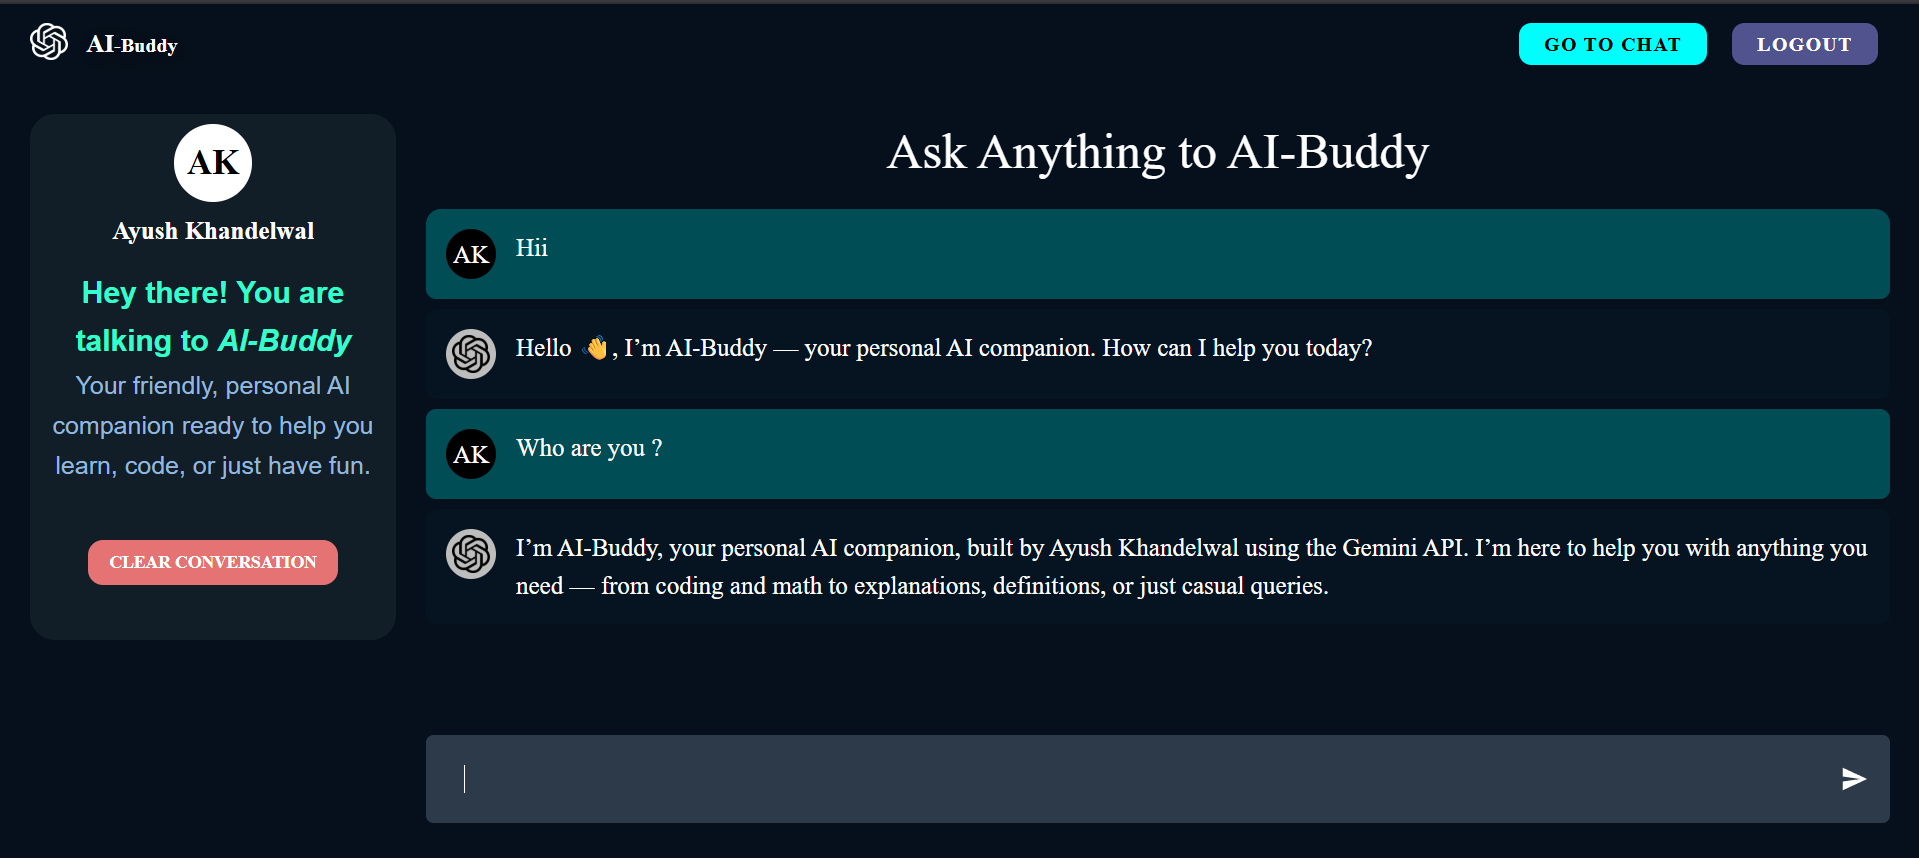
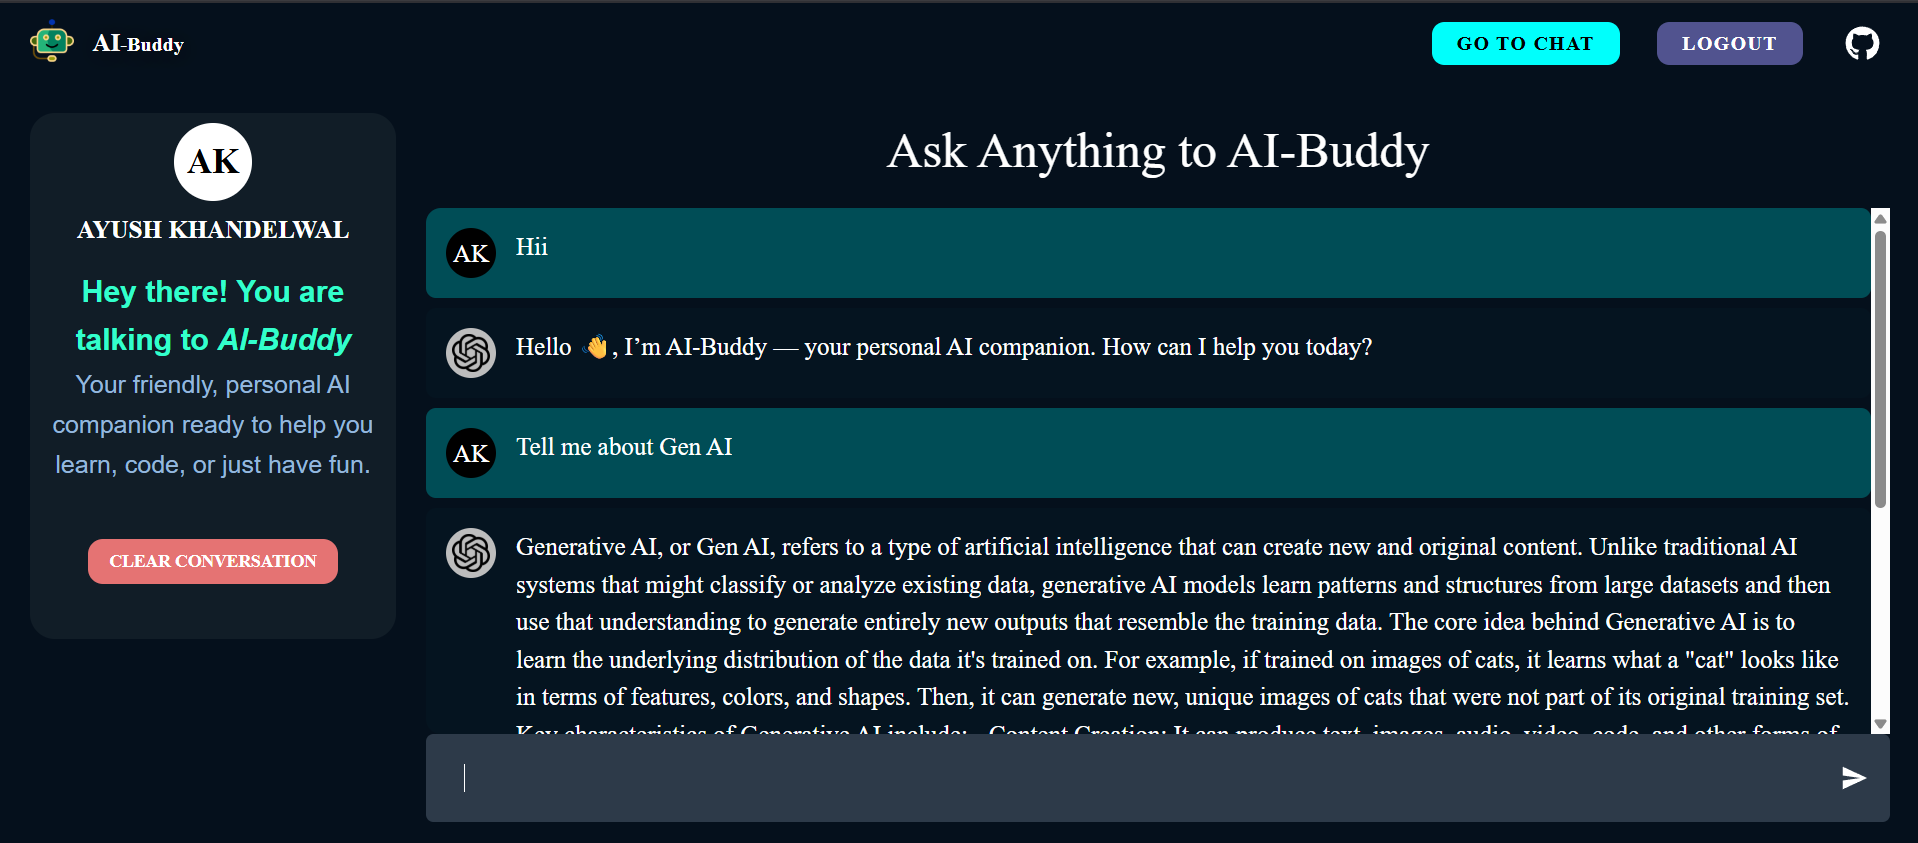
Resolving some errors

diff --git a/frontend/src/Pages/Signup.tsx b/frontend/src/Pages/Signup.tsx
@@ -19,15 +19,21 @@ function Signup() {
     const name = formData.get("name") as string;
     const email = formData.get("email") as string;
     const password = formData.get("password") as string;
+try {
+  toast.loading("Signing Up", { id: "signup" });
+  const res = await auth?.signup(name, email, password);
+ toast.success((res as any)?.message || "Signup Successfully", { id: "signup" });
+} catch (error: any) {
+  console.log("Signup Error:", error);
 
-    try {
-      toast.loading("Signing Up", { id: "signup" });
-      await auth?.signup(name,email, password);
-      toast.success("Signup In Successfully", { id: "signup" });
-    } catch (error) {
-      console.log(error);
-      toast.error("Signing Up  Failed", { id: "signup" });
-    }
+  // yaha dono case cover karne hai:
+  // 1) jab api.tsx ne throw { message: "User already exists" }
+  // 2) jab koi aur error ho (axios/network etc)
+  const errMsg =
+    error?.message || error.response?.data?.message || "Signing Up Failed";
+
+  toast.error(errMsg, { id: "signup" });
+}
   };
   useEffect(() => {
     if (auth?.user) {

diff --git a/frontend/src/helpers/api.tsx b/frontend/src/helpers/api.tsx
@@ -12,18 +12,21 @@ export const loginUser = async (email: string, password: string) => {
      return data;
 };
 
-export const signupUser = async (name:string,email: string, password: string) => {
-
-     const res=await axios.post("/user/signup", { name,email, password });
-
-     if(res.status !== 201){
-        throw new Error("Signup Failed");
-     }
-
-     const data =await res.data;
-     return data;
+export const signupUser = async (name: string, email: string, password: string) => {
+  try {
+    const res = await axios.post("/user/signup", { name, email, password }, { withCredentials: true });
+    return res.data;
+  } catch (error: any) {
+    // axios error hamesha ye shape me throw kar
+    throw {
+      response: {
+        data: {
+          message: error.response?.data?.message || "Signup Failed"
+        }
+      }
+    };
+  }
 };
-
 
 export const checkAuthStatus = async () => {
 

diff --git a/frontend/src/main.tsx b/frontend/src/main.tsx
@@ -8,7 +8,7 @@ import { AuthProvider } from "./context/AuthContent.tsx";
 import {Toaster} from "react-hot-toast"
 import axios from "axios";
 
-axios.defaults.baseURL = "https://ai-chat-bot-backend-4hic.onrender.com/api/v1";
+axios.defaults.baseURL = "https://ai-chat-bot-cauj.onrender.com/api/v1";
 axios.defaults.withCredentials = true;
 
 const theme = createTheme({

diff --git a/frontend/src/components/shared/Logo.tsx b/frontend/src/components/shared/Logo.tsx
@@ -14,10 +14,10 @@ function Logo() {
     >
       <Link to={"/"}>
         <img
-          src="chatbot.png"
+          src="logo.png"
           alt="openai"
-          width={"30px"}
-          height={"30px"}
+          width={"35px"}
+          height={"35px"}
           className="image-inverted"
         />
       </Link>{" "}

diff --git a/frontend/index.html b/frontend/index.html
@@ -2,7 +2,7 @@
 <html lang="en">
   <head>
     <meta charset="UTF-8" />
-    <link rel="icon" type="image/svg+xml" href="/chatbot.png" />
+    <link rel="icon" type="image/svg+xml" href="/logo.png" />
     <meta name="viewport" content="width=device-width, initial-scale=1.0" />
     <title>AI-Buddy</title>
   </head>

diff --git a/frontend/src/Pages/Home.tsx b/frontend/src/Pages/Home.tsx
@@ -58,7 +58,7 @@ function Home() {
 />
           <img
             className="image-inverted rotate"
-            src="openai.png"
+            src="aicircle.png"
             alt="openai"
             style={{ width: "200px", margin: "auto" }}
           />

diff --git a/frontend/src/context/AuthContent.tsx b/frontend/src/context/AuthContent.tsx
@@ -59,6 +59,7 @@ export const AuthProvider =({children} : {children : ReactNode})=>{
         setUser({email:data.email , name:data.name});
         setIsLoggedIn(true);
     }
+    return data;
     };
 
     

diff --git a/backend/src/app.ts b/backend/src/app.ts
@@ -13,6 +13,7 @@ app.use(cors({
     origin: [
         "https://ai-chat-bot-cauj.onrender.com",
         
+        
     ],
     credentials: true,
 }));
